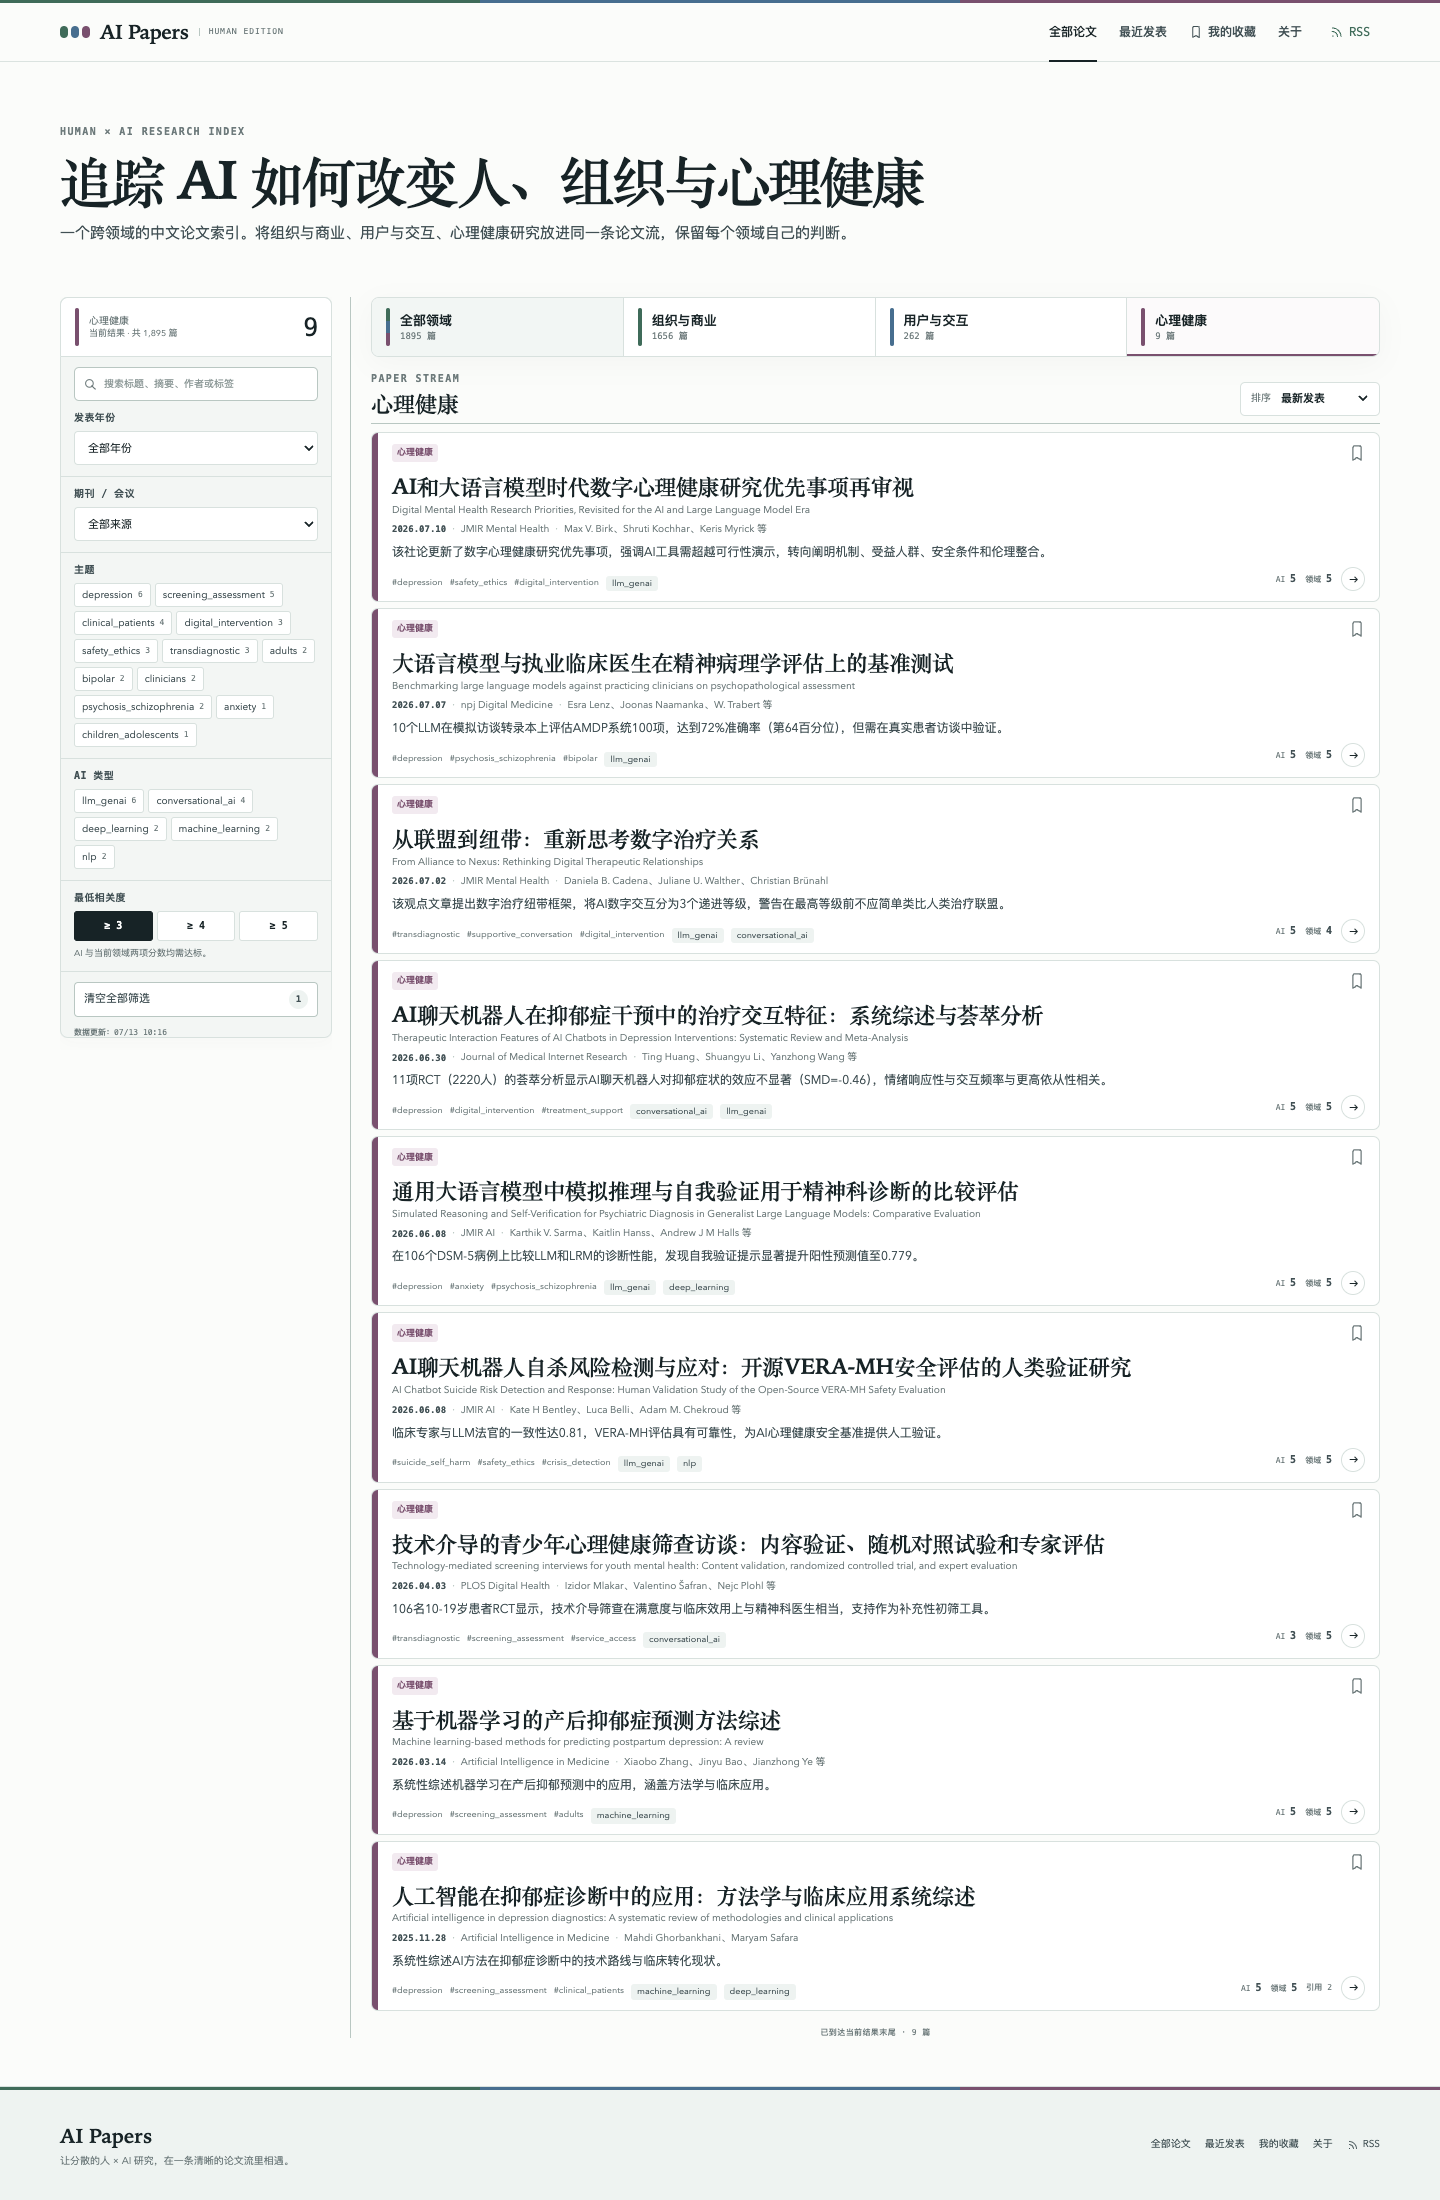
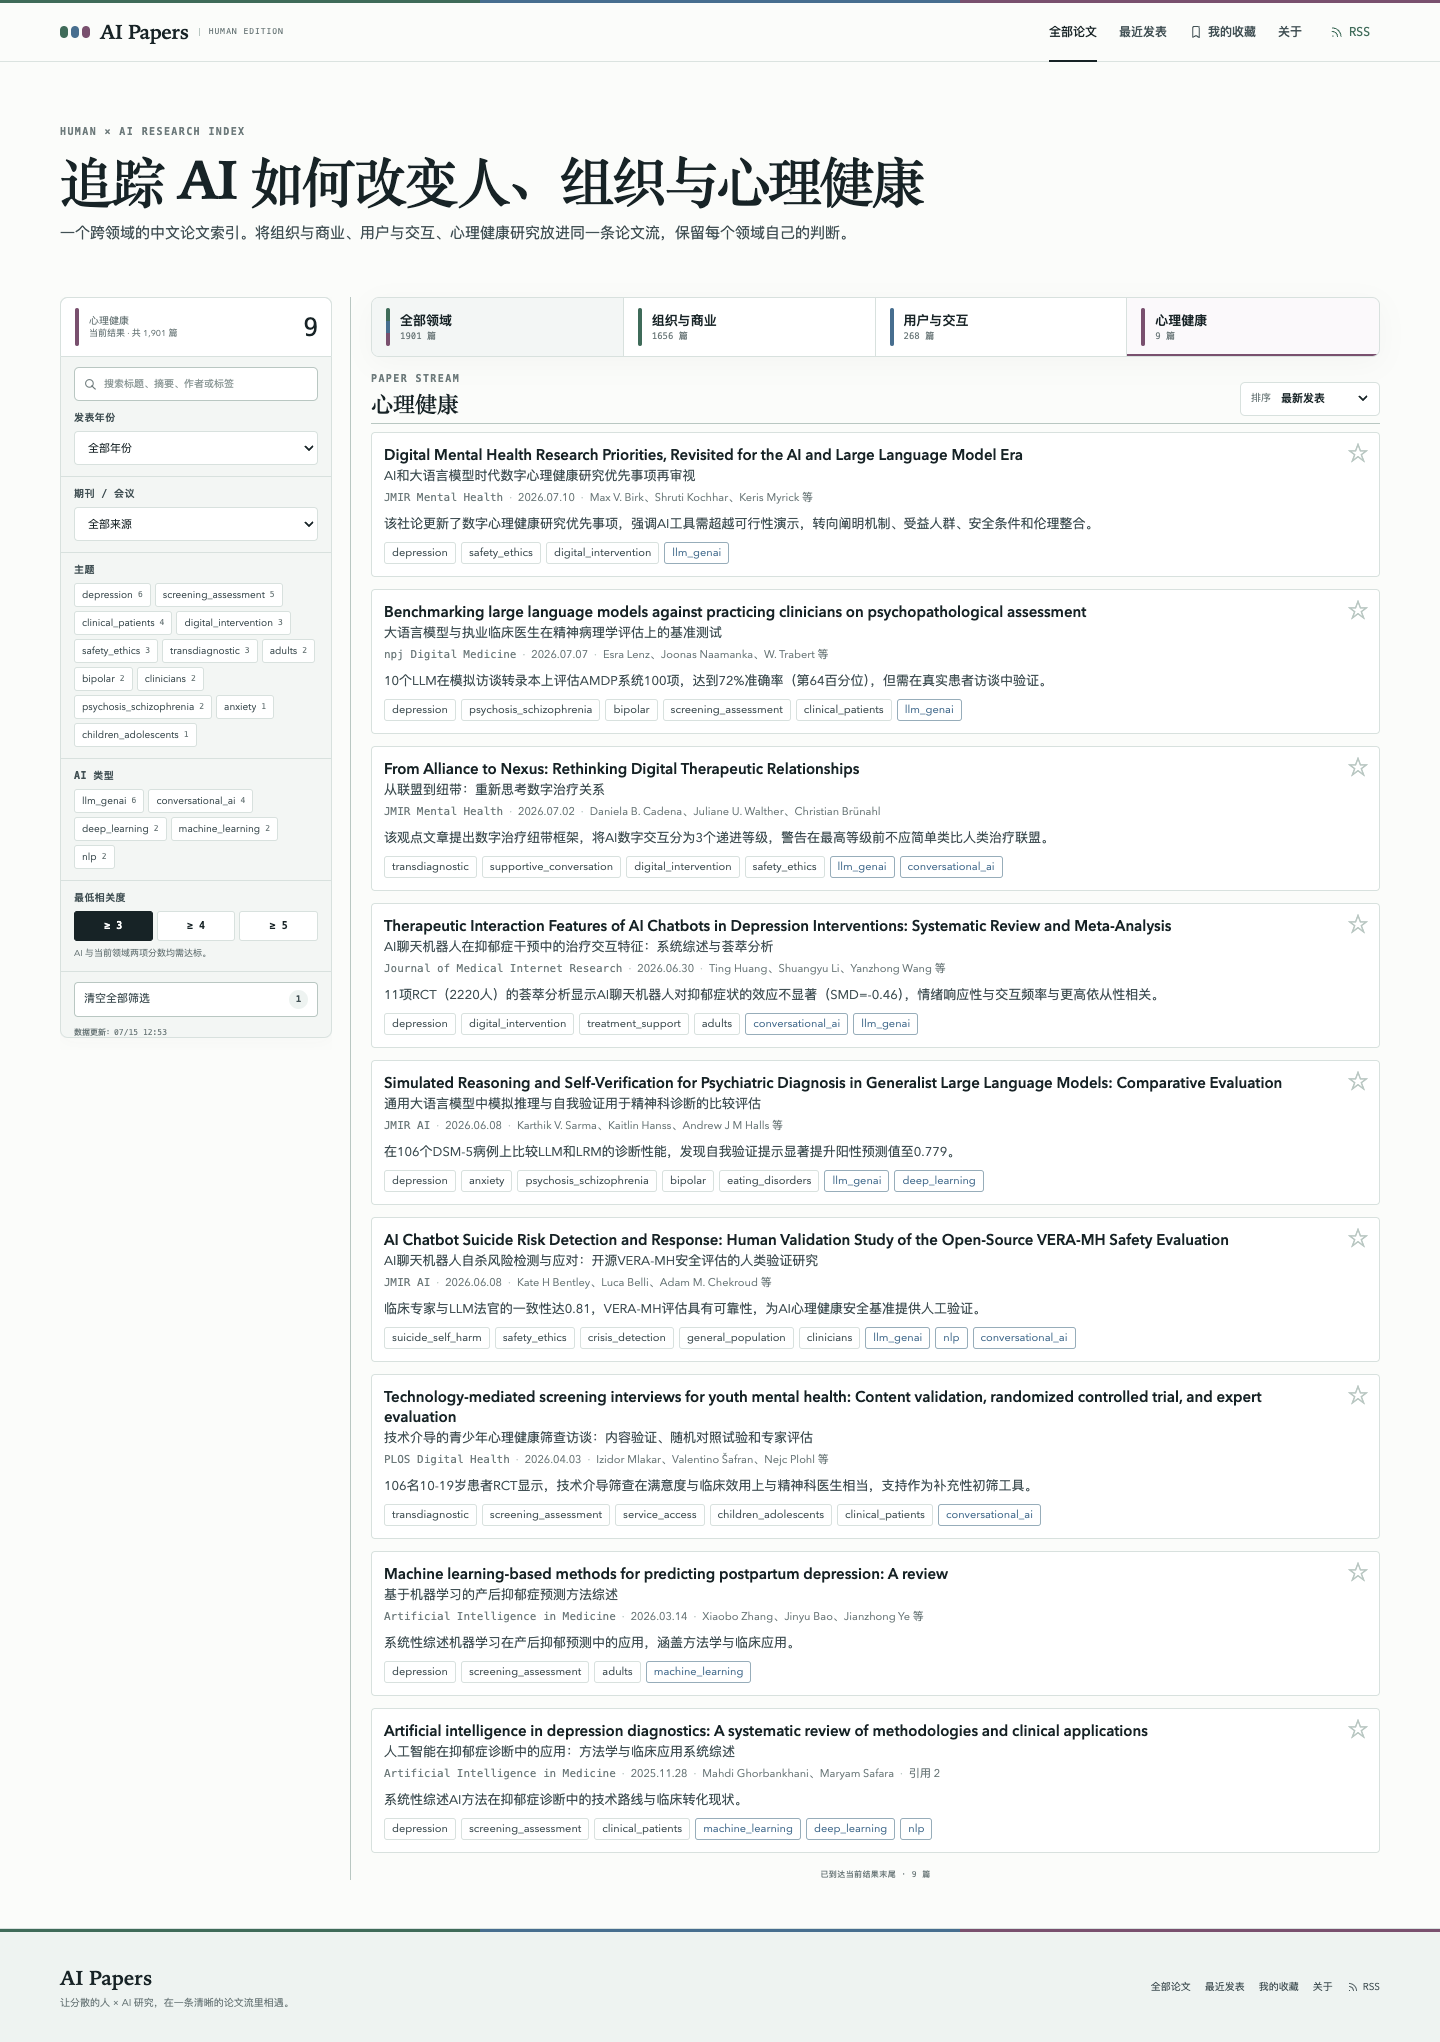
align paper cards with UR index

diff --git a/web/app/globals.css b/web/app/globals.css
@@ -159,46 +159,44 @@ svg { display: block; }
 .result-heading h2 { margin: 3px 0 0; font-family: var(--display); font-size: 22px; line-height: 1.12; }
 .result-heading .sort-field { height: 34px; flex: 0 0 auto; }
 
-/* Paper cards + domain track */
-.paper-list { display: grid; gap: 6px; }
-.paper-card { position: relative; display: grid; grid-template-columns: 6px minmax(0, 1fr); border: 1px solid var(--line); border-radius: 7px; background: var(--paper-raised); overflow: hidden; transition: transform .18s ease, border-color .18s ease, box-shadow .18s ease; }
-.paper-card:hover { transform: translateY(-1px); border-color: var(--line-dark); box-shadow: 0 12px 32px rgba(23, 35, 38, .055); }
+/* Paper cards follow the compact, citation-first hierarchy from UR AI Papers. */
+.paper-list { display: grid; gap: 12px; }
+.paper-card { border: 1px solid var(--line); border-radius: 4px; background: var(--paper-raised); transition: border-color .15s ease, background .15s ease; }
+.paper-card:hover { border-color: var(--ur); }
 .paper-card--read { background: #f9fbf9; }
-.paper-card--read .paper-card__title-link { opacity: .78; }
+.paper-card--read .paper-card__title-link { opacity: .76; }
 .domain-track { display: flex; min-height: 100%; flex-direction: column; }
 .domain-track i { flex: 1; }
 .domain-track__ob { background: var(--ob); }
 .domain-track__ur { background: var(--ur); }
 .domain-track__mh { background: var(--mh); }
-.paper-card__body { min-width: 0; padding: 11px 14px 10px; }
+.paper-card__body { min-width: 0; padding: 12px; }
 .paper-card__topline { display: flex; align-items: start; justify-content: space-between; gap: 10px; }
-.paper-card__channels { display: flex; flex-wrap: wrap; align-items: center; gap: 4px; }
 .domain-label { display: inline-flex; align-items: center; min-height: 18px; padding: 1px 5px; border-radius: 3px; font-size: 9px; font-weight: 650; }
 .domain-label--ob { background: var(--ob-soft); color: var(--ob); }
 .domain-label--ur { background: var(--ur-soft); color: var(--ur); }
 .domain-label--mh { background: var(--mh-soft); color: var(--mh); }
-.read-label { color: var(--muted); font: 500 9px/1 var(--utility); letter-spacing: .06em; }
-.bookmark-button { display: grid; flex: 0 0 auto; width: 28px; height: 28px; place-items: center; margin: -5px -5px 0 0; border: 0; border-radius: 50%; background: transparent; color: var(--muted); transition: color .15s ease, background .15s ease; }
-.bookmark-button:hover { background: var(--fog); color: var(--ink); }
-.bookmark-button.is-active { color: var(--mh); }
-.bookmark-button svg { width: 18px; height: 18px; }
-.paper-card__title-link { display: block; width: fit-content; max-width: 100%; margin-top: 5px; transition: opacity .15s ease; }
+.favorite-button { flex: 0 0 auto; margin: -2px -2px 0 0; padding: 1px; border: 0; background: transparent; color: var(--line-dark); font-size: 20px; line-height: 1; transition: color .15s ease; }
+.favorite-button:hover { color: #d59a2d; }
+.favorite-button.is-active { color: #ca8c1d; }
+.paper-card__title-link { display: block; min-width: 0; transition: opacity .15s ease; }
 .paper-card__title-link:hover h2 { color: var(--ur); }
-.paper-card h2 { margin: 0; font-family: var(--display); font-size: clamp(18px, 1.7vw, 22px); font-weight: 600; line-height: 1.3; letter-spacing: -.018em; transition: color .15s ease; }
-.paper-card__english { margin: 3px 0 0; color: var(--muted); font-family: var(--body); font-size: 10px; line-height: 1.35; }
-.paper-card__meta { display: flex; flex-wrap: wrap; align-items: center; gap: 0; margin-top: 5px; color: var(--muted); font-size: 10px; }
+.paper-card h2 { margin: 0; font-family: var(--body); font-size: 15px; font-weight: 600; line-height: 1.35; letter-spacing: 0; transition: color .15s ease; }
+.read-dot { margin-right: 6px; color: var(--line-dark); font-size: 10px; vertical-align: middle; }
+.paper-card__chinese { margin: 2px 0 0; color: var(--ink-soft); font-size: 13px; line-height: 1.4; }
+.paper-card__meta { display: flex; flex-wrap: wrap; align-items: center; gap: 0; margin-top: 5px; color: var(--muted); font-size: 11px; line-height: 1.4; }
 .paper-card__meta span { display: inline-flex; align-items: center; }
 .paper-card__meta span + span::before { content: "\00b7"; margin: 0 6px; color: var(--line-dark); }
-.paper-card__date { color: var(--ink-soft); font: 600 9px/1.4 var(--utility); }
-.paper-card__tldr { margin: 6px 0 0; color: var(--ink-soft); font-size: 12px; line-height: 1.5; }
-.paper-card__footer { display: flex; align-items: end; justify-content: space-between; gap: 10px; margin-top: 6px; padding-top: 0; border-top: 0; }
-.paper-card__tags { display: flex; min-width: 0; flex-wrap: wrap; gap: 3px 7px; color: var(--muted); font-size: 9px; }
-.paper-card__tags .ai-tag { padding: 1px 6px; border-radius: 3px; background: var(--fog); color: var(--ink-soft); }
-.paper-card__metrics { display: flex; flex: 0 0 auto; align-items: center; gap: 9px; color: var(--muted); font: 500 8px/1 var(--utility); }
-.paper-card__metrics b { color: var(--ink-soft); font-size: 10px; }
-.paper-card__metrics a { display: grid; width: 24px; height: 24px; place-items: center; border: 1px solid var(--line); border-radius: 50%; color: var(--ink); }
-.paper-card__metrics a:hover { border-color: var(--ink); background: var(--ink); color: white; }
-.paper-card__metrics svg { width: 13px; height: 13px; }
+.paper-card__journal, .paper-card__date { color: var(--muted); }
+.paper-card__journal { font-family: var(--utility); }
+.paper-card__tldr { margin: 8px 0 0; color: var(--ink-soft); font-size: 13px; line-height: 1.55; }
+.paper-card__tags { display: flex; flex-wrap: wrap; gap: 5px; margin-top: 8px; }
+.paper-card__tags span { display: inline-flex; align-items: center; min-height: 22px; padding: 2px 7px; border: 1px solid var(--line); border-radius: 3px; background: var(--paper-raised); color: var(--ink-soft); font-size: 11px; line-height: 1.2; }
+.paper-card__tags .ai-tag { border-color: color-mix(in srgb, var(--ur) 45%, var(--line)); color: var(--ur); }
+.paper-card__sources { display: flex; flex-wrap: wrap; gap: 4px 12px; margin-top: 8px; color: var(--muted); font-size: 11px; line-height: 1.4; }
+.paper-card__sources a { color: var(--ur); }
+.paper-card__sources a:hover { text-decoration: underline; }
+.paper-card__sources span { overflow: hidden; max-width: 100%; text-overflow: ellipsis; white-space: nowrap; font-family: var(--utility); font-size: 10px; }
 .load-more { display: flex; width: 100%; align-items: center; justify-content: center; gap: 7px; margin-top: 12px; padding: 10px; border: 1px solid var(--line-dark); border-radius: 5px; background: transparent; color: var(--ink-soft); font-size: 11px; }
 .load-more:hover { border-color: var(--ink); background: var(--fog); }
 .load-more span { color: var(--muted); }
@@ -397,14 +395,11 @@ svg { display: block; }
   .sort-field select { min-width: 82px; }
   .result-heading { margin-top: 14px; }
   .result-heading h2 { font-size: 21px; }
-  .paper-card__body { padding: 11px 12px 10px; }
-  .paper-card h2 { font-size: 19px; }
-  .paper-card__english { font-size: 10px; }
-  .paper-card__meta span:last-child { width: 100%; margin-top: 3px; }
-  .paper-card__meta span:last-child::before { display: none; }
-  .paper-card__tldr { font-size: 11.5px; line-height: 1.45; }
-  .paper-card__footer { align-items: flex-start; flex-direction: column; gap: 7px; }
-  .paper-card__metrics { width: 100%; justify-content: flex-end; }
+  .paper-card__body { padding: 12px; }
+  .paper-card h2 { font-size: 14px; }
+  .paper-card__chinese { font-size: 12px; }
+  .paper-card__tldr { font-size: 12px; line-height: 1.5; }
+  .paper-card__tags span { font-size: 10px; }
   .empty-state { min-height: 260px; padding: 24px 20px; }
   .skeleton--hero { width: 100%; }
   .skeleton--tabs { height: 114px; }

diff --git a/web/components/PaperCard.tsx b/web/components/PaperCard.tsx
@@ -1,22 +1,18 @@
 "use client";
 
 import Link from "next/link";
-import { ArrowIcon, BookmarkIcon } from "@/components/Icons";
-import { DomainTrack } from "@/components/Spectrum";
-import type { ChannelDefinition, ChannelId, Paper } from "@/lib/types";
+import type { ChannelId, Paper } from "@/lib/types";
 import { formatDate, getPaperProfile } from "@/lib/papers";
 import { markRead } from "@/lib/storage";
 
-export default function PaperCard({ paper, activeDomain, favorite, read, channels, onToggleFavorite }: {
+export default function PaperCard({ paper, activeDomain, favorite, read, onToggleFavorite }: {
   paper: Paper;
   activeDomain: ChannelId | null;
   favorite: boolean;
   read: boolean;
-  channels: ChannelDefinition[];
   onToggleFavorite: (id: string) => void;
 }) {
   const selected = getPaperProfile(paper, activeDomain);
-  const definitions = new Map(channels.map((channel) => [channel.id, channel]));
   const profile = selected?.profile;
   const authorText = paper.authors.length > 3
     ? `${paper.authors.slice(0, 3).join("、")} 等`
@@ -24,41 +20,36 @@ export default function PaperCard({ paper, activeDomain, favorite, read, channel
 
   return (
     <article className={`paper-card ${read ? "paper-card--read" : ""}`}>
-      <DomainTrack channels={paper.channels} definitions={channels} />
       <div className="paper-card__body">
         <div className="paper-card__topline">
-          <div className="paper-card__channels">
-            {paper.channels.map((channel) => {
-              const definition = definitions.get(channel);
-              return <span key={channel} className="domain-label" style={definition ? { background: definition.soft_color, color: definition.color } : undefined}>{definition?.label || channel}</span>;
-            })}
-            {read ? <span className="read-label">已读</span> : null}
-          </div>
-          <button type="button" className={`bookmark-button ${favorite ? "is-active" : ""}`} onClick={() => onToggleFavorite(paper.id)} aria-label={favorite ? `取消收藏 ${paper.title_zh || paper.title}` : `收藏 ${paper.title_zh || paper.title}`} aria-pressed={favorite}>
-            <BookmarkIcon filled={favorite} />
+          <Link href={`/papers/${encodeURIComponent(paper.id)}`} prefetch={false} className="paper-card__title-link" onClick={() => markRead(paper.id)}>
+            <h2>{read ? <span className="read-dot" title="已读">●</span> : null}{paper.title}</h2>
+            {paper.title_zh ? <p className="paper-card__chinese">{paper.title_zh}</p> : null}
+          </Link>
+          <button type="button" className={`favorite-button ${favorite ? "is-active" : ""}`} onClick={() => onToggleFavorite(paper.id)} aria-label={favorite ? `取消收藏 ${paper.title_zh || paper.title}` : `收藏 ${paper.title_zh || paper.title}`} aria-pressed={favorite}>
+            {favorite ? "★" : "☆"}
           </button>
         </div>
-        <Link href={`/papers/${encodeURIComponent(paper.id)}`} prefetch={false} className="paper-card__title-link" onClick={() => markRead(paper.id)}>
-          <h2>{paper.title_zh || paper.title}</h2>
-          {paper.title_zh ? <p className="paper-card__english">{paper.title}</p> : null}
-        </Link>
         <div className="paper-card__meta">
+          {paper.journal ? <span className="paper-card__journal">{paper.journal}</span> : null}
           <span className="paper-card__date">{formatDate(paper.date, paper.year)}</span>
-          {paper.journal ? <span>{paper.journal}</span> : null}
           {authorText ? <span>{authorText}</span> : null}
+          {paper.cited_by > 0 ? <span>引用 {paper.cited_by}</span> : null}
         </div>
         {profile?.tldr ? <p className="paper-card__tldr">{profile.tldr}</p> : null}
-        <div className="paper-card__footer">
+        {(profile?.topic_tags.length || paper.ai_type_tags.length) ? (
           <div className="paper-card__tags">
-            {profile?.topic_tags.slice(0, 3).map((tag) => <span key={tag}>#{tag}</span>)}
-            {paper.ai_type_tags.slice(0, 2).map((tag) => <span key={`ai-${tag}`} className="ai-tag">{tag}</span>)}
+            {profile?.topic_tags.slice(0, 5).map((tag) => <span key={tag}>{tag}</span>)}
+            {paper.ai_type_tags.slice(0, 3).map((tag) => <span key={`ai-${tag}`} className="ai-tag">{tag}</span>)}
           </div>
-          <div className="paper-card__metrics">
-            {profile ? <><span>AI <b>{profile.ai_score}</b></span><span>领域 <b>{profile.domain_score}</b></span></> : null}
-            {paper.cited_by > 0 ? <span>引用 {paper.cited_by}</span> : null}
-            <Link href={`/papers/${encodeURIComponent(paper.id)}`} prefetch={false} aria-label={`查看 ${paper.title_zh || paper.title} 详情`} onClick={() => markRead(paper.id)}><ArrowIcon /></Link>
+        ) : null}
+        {(paper.url || paper.pdf_url || paper.doi) ? (
+          <div className="paper-card__sources">
+            {paper.url ? <a href={paper.url} target="_blank" rel="noopener noreferrer">原文 ↗</a> : null}
+            {paper.pdf_url ? <a href={paper.pdf_url} target="_blank" rel="noopener noreferrer">PDF ↗</a> : null}
+            {paper.doi ? <span>{paper.doi}</span> : null}
           </div>
-        </div>
+        ) : null}
       </div>
     </article>
   );

diff --git a/web/components/PaperExplorer.tsx b/web/components/PaperExplorer.tsx
@@ -238,7 +238,7 @@ export default function PaperExplorer({ mode }: { mode: ExplorerMode }) {
           ) : (
             <>
               <div className="paper-list">
-                {visiblePapers.map((paper) => <PaperCard key={paper.id} paper={paper} activeDomain={activeDomain} channels={channelDefinitions} favorite={favorites.has(paper.id)} read={readIds.has(paper.id)} onToggleFavorite={handleToggleFavorite} />)}
+                {visiblePapers.map((paper) => <PaperCard key={paper.id} paper={paper} activeDomain={activeDomain} favorite={favorites.has(paper.id)} read={readIds.has(paper.id)} onToggleFavorite={handleToggleFavorite} />)}
               </div>
               {visibleCount < filtered.length ? (
                 <button type="button" className="load-more" onClick={() => setVisibleCount((count) => count + PAGE_SIZE)}>

diff --git a/tests/browser_smoke.py b/tests/browser_smoke.py
@@ -61,9 +61,11 @@ def main() -> None:
         assert page.locator(".result-heading .sort-field").is_visible()
         assert page.locator(".filters-desktop .search-field").is_visible()
         assert not page.locator(".search-field--results").is_visible()
-        assert page.locator(".paper-card__footer").first.evaluate(
-            "element => getComputedStyle(element).borderTopWidth"
-        ) == "0px"
+        first_home_card = page.locator(".paper-card").first
+        assert first_home_card.locator(".domain-track").count() == 0
+        assert first_home_card.locator(".favorite-button").is_visible()
+        assert first_home_card.locator(".paper-card__metrics").count() == 0
+        assert first_home_card.locator(".paper-card__chinese").count() <= 1
         assert len(paper_index_requests) == 1
         explorer_route_requests.clear()
 
@@ -88,8 +90,8 @@ def main() -> None:
         page.screenshot(path=str(SCREENSHOT_DIR / "mental-health-desktop.png"), full_page=True)
 
         first_card = page.locator(".paper-card").first
-        first_title = first_card.locator("h2").inner_text()
-        first_card.locator(".bookmark-button").click()
+        first_title = first_card.locator(".paper-card__chinese").inner_text()
+        first_card.locator(".favorite-button").click()
         first_card.locator(".paper-card__title-link").click()
         page.wait_for_url("**/papers/p_*")
         page.get_by_role("heading", name=first_title).wait_for()
@@ -124,7 +126,7 @@ def main() -> None:
             f"home shows {TOTAL_PAPERS} unified papers",
             "desktop search stays in the filter rail",
             "sort control replaces the duplicated result count",
-            "paper tags have no divider above them",
+            "paper cards use the compact UR-style citation hierarchy",
             f"mental-health channel shows {MH_PAPERS} real scored papers",
             "paper detail opens",
             "favorite persists across routes",

diff --git a/web/scripts/smoke_test.py b/web/scripts/smoke_test.py
@@ -53,7 +53,7 @@ def main() -> None:
         assert page.locator(".paper-card").count() > 0, "OB channel is empty"
 
         first_card = page.locator(".paper-card").first
-        first_card.locator(".bookmark-button").click()
+        first_card.locator(".favorite-button").click()
         page.get_by_role("link", name=re.compile("我的收藏")).first.click()
         page.wait_for_load_state("networkidle")
         page.locator(".paper-card").first.wait_for()
@@ -63,6 +63,7 @@ def main() -> None:
         page.wait_for_url(re.compile(r"/papers/"))
         page.wait_for_load_state("networkidle")
         assert re.search(r"/papers/", page.url), "Detail route did not open"
+        page.locator(".paper-detail h1").wait_for()
         assert page.locator(".paper-detail h1").count() == 1, "Detail heading is missing"
         assert page.locator(".channel-profile").count() >= 1, "Channel profile is missing"
 